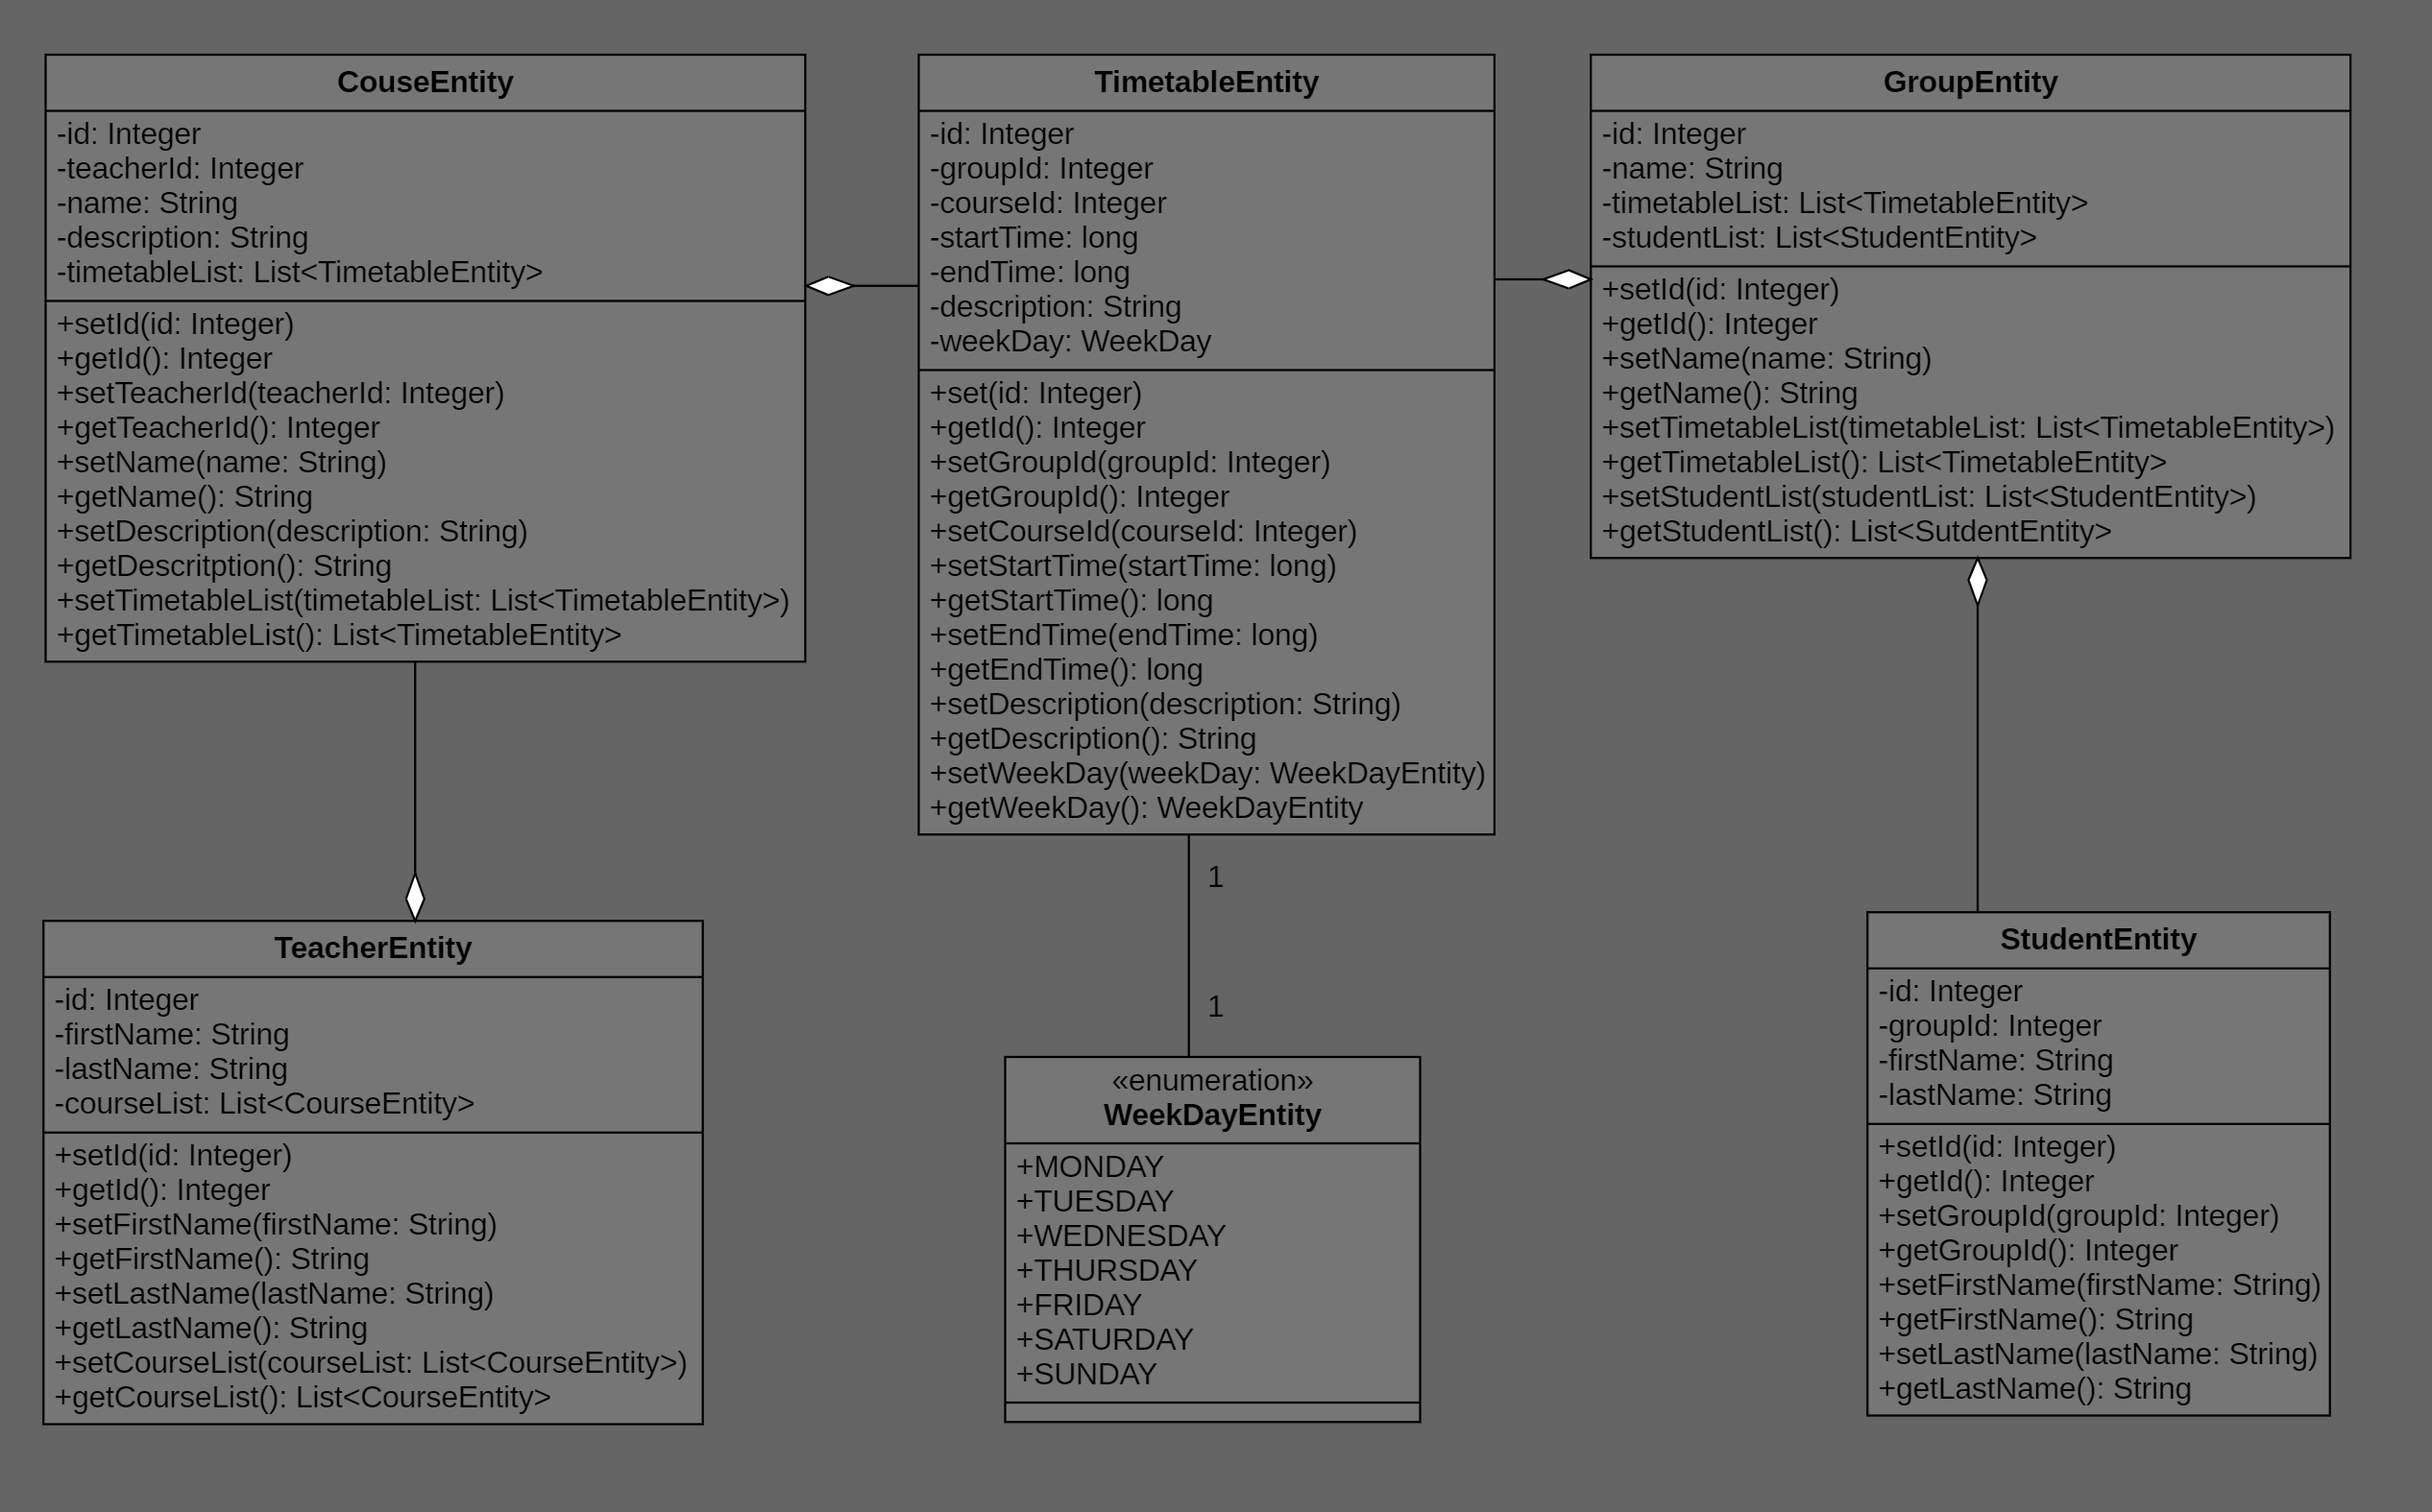
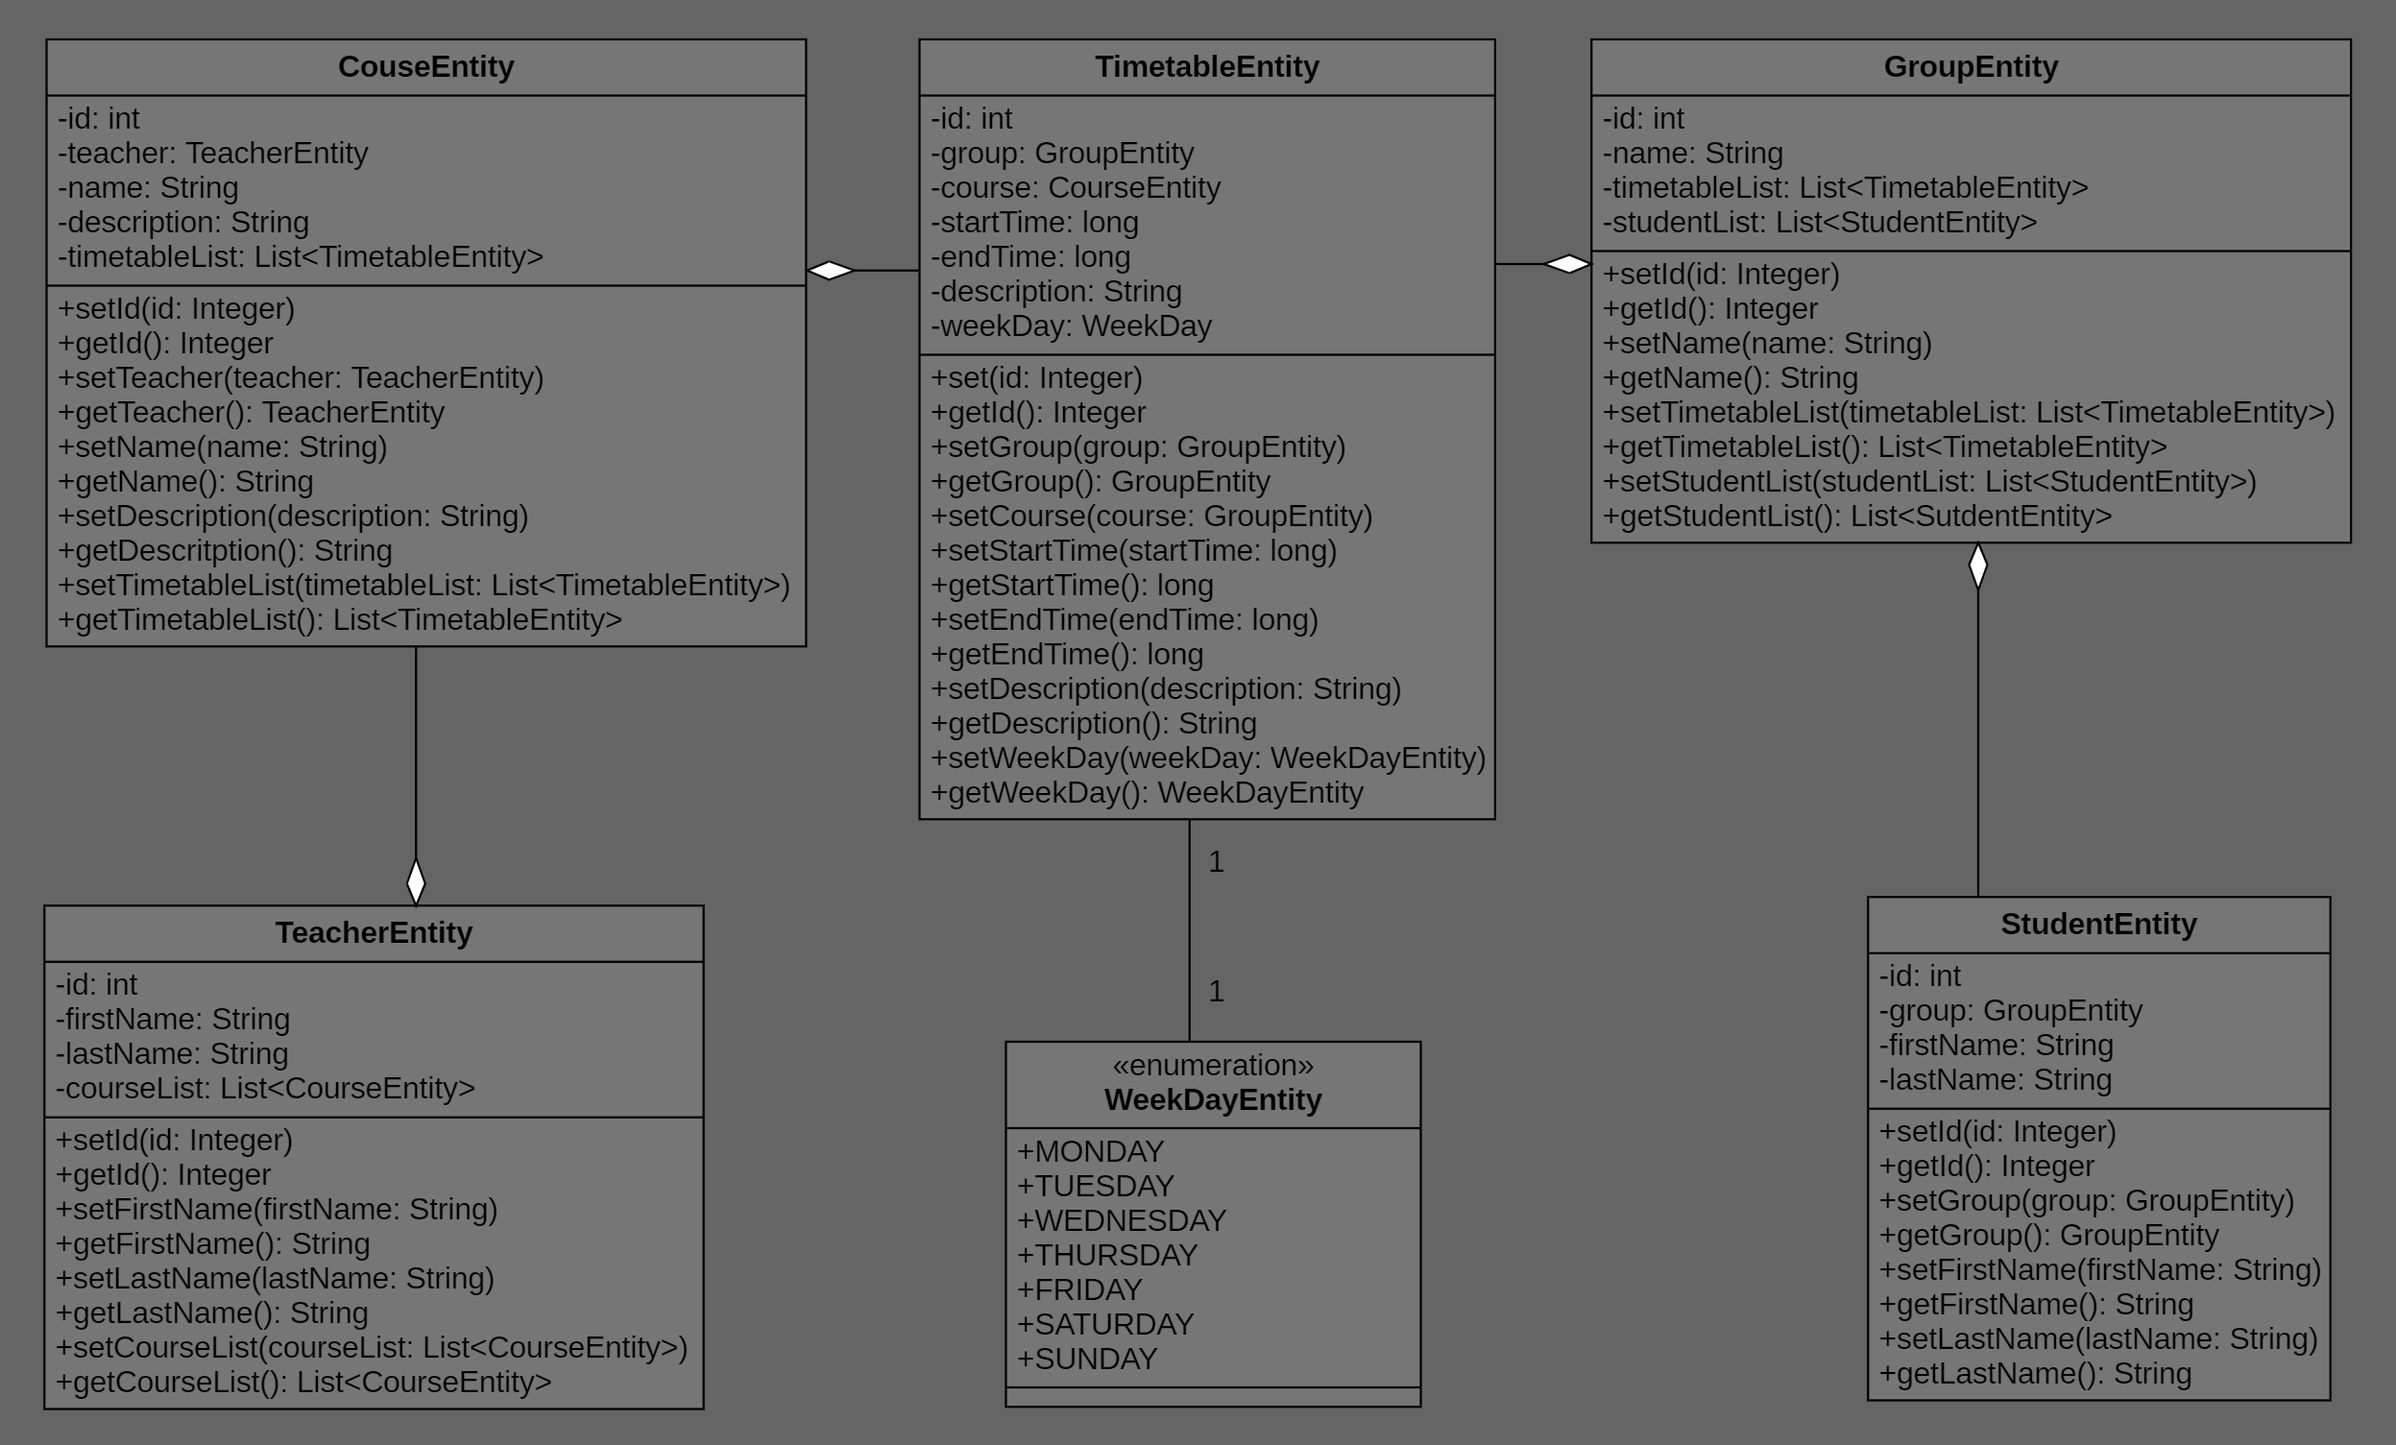
The entity id into another entity that renders the relationship has been replaced by the its entity.

diff --git a/src/main/java/ua/com/foxminded/universitymanagement/entity/TimetableEntity.java b/src/main/java/ua/com/foxminded/universitymanagement/entity/TimetableEntity.java
@@ -4,36 +4,36 @@ import java.util.Objects;
 
 public class TimetableEntity {
 
-    private Integer id;
-    private Integer groupId;
-    private Integer courseId;
+    private int id;
+    private GroupEntity group;
+    private CourseEntity course;
     private long startTime;
     private long endTime;
     private String description;
     private WeekDayEntity weekDay;
 
-    public Integer getId() {
+    public int getId() {
         return id;
     }
 
-    public void setId(Integer id) {
+    public void setId(int id) {
         this.id = id;
     }
 
-    public Integer getGroupId() {
-        return groupId;
+    public GroupEntity getGroup() {
+        return group;
     }
 
-    public void setGroupId(Integer groupId) {
-        this.groupId = groupId;
+    public void setGroup(GroupEntity group) {
+        this.group = group;
     }
 
-    public Integer getCourseId() {
-        return courseId;
+    public CourseEntity getCourse() {
+        return course;
     }
 
-    public void setCourseId(Integer courseId) {
-        this.courseId = courseId;
+    public void setCourse(CourseEntity course) {
+        this.course = course;
     }
 
     public long getStartTime() {
@@ -67,10 +67,10 @@ public class TimetableEntity {
     public void setWeekDay(WeekDayEntity weekDay) {
         this.weekDay = weekDay;
     }
-    
+
     @Override
     public int hashCode() {
-        return Objects.hash(courseId, description, endTime, groupId, id, startTime, weekDay);
+        return Objects.hash(course, description, endTime, group, id, startTime, weekDay);
     }
 
     @Override
@@ -82,8 +82,8 @@ public class TimetableEntity {
         if (getClass() != obj.getClass())
             return false;
         TimetableEntity other = (TimetableEntity) obj;
-        return Objects.equals(courseId, other.courseId) && Objects.equals(description, other.description)
-                && endTime == other.endTime && Objects.equals(groupId, other.groupId) && Objects.equals(id, other.id)
+        return Objects.equals(course, other.course) && Objects.equals(description, other.description)
+                && endTime == other.endTime && Objects.equals(group, other.group) && id == other.id
                 && startTime == other.startTime && weekDay == other.weekDay;
     }
 }

diff --git a/src/main/java/ua/com/foxminded/universitymanagement/entity/CourseEntity.java b/src/main/java/ua/com/foxminded/universitymanagement/entity/CourseEntity.java
@@ -4,26 +4,26 @@ import java.util.List;
 import java.util.Objects;
 
 public class CourseEntity {
-    private Integer id;
-    private Integer teacherId;
+    private int id;
+    private TeacherEntity teacher;
     private String name;
     private String description;
     private List<TimetableEntity> timetableList;
 
-    public Integer getId() {
+    public int getId() {
         return id;
     }
 
-    public void setId(Integer id) {
+    public void setId(int id) {
         this.id = id;
     }
 
-    public Integer getTeacherId() {
-        return teacherId;
+    public TeacherEntity getTeacher() {
+        return teacher;
     }
 
-    public void setTeacherId(Integer teacherId) {
-        this.teacherId = teacherId;
+    public void setTeacher(TeacherEntity teacher) {
+        this.teacher = teacher;
     }
 
     public String getName() {
@@ -52,7 +52,7 @@ public class CourseEntity {
 
     @Override
     public int hashCode() {
-        return Objects.hash(description, id, name, teacherId, timetableList);
+        return Objects.hash(description, id, name, teacher, timetableList);
     }
 
     @Override
@@ -64,8 +64,7 @@ public class CourseEntity {
         if (getClass() != obj.getClass())
             return false;
         CourseEntity other = (CourseEntity) obj;
-        return Objects.equals(description, other.description) && Objects.equals(id, other.id)
-                && Objects.equals(name, other.name) && Objects.equals(teacherId, other.teacherId)
-                && Objects.equals(timetableList, other.timetableList);
+        return Objects.equals(description, other.description) && id == other.id && Objects.equals(name, other.name)
+                && Objects.equals(teacher, other.teacher) && Objects.equals(timetableList, other.timetableList);
     }
 }

diff --git a/src/main/java/ua/com/foxminded/universitymanagement/entity/StudentEntity.java b/src/main/java/ua/com/foxminded/universitymanagement/entity/StudentEntity.java
@@ -4,25 +4,25 @@ import java.util.Objects;
 
 public class StudentEntity {
 
-    private Integer id;
-    private Integer groupId;
+    private int id;
+    private GroupEntity group;
     private String firstName;
     private String lastName;
 
-    public Integer getId() {
+    public int getId() {
         return id;
     }
 
-    public void setId(Integer id) {
+    public void setId(int id) {
         this.id = id;
     }
 
-    public Integer getGroupId() {
-        return groupId;
+    public GroupEntity getGroup() {
+        return group;
     }
 
-    public void setGroupId(Integer groupId) {
-        this.groupId = groupId;
+    public void setGroup(GroupEntity group) {
+        this.group = group;
     }
 
     public String getFirstName() {
@@ -43,7 +43,7 @@ public class StudentEntity {
 
     @Override
     public int hashCode() {
-        return Objects.hash(firstName, groupId, id, lastName);
+        return Objects.hash(firstName, group, id, lastName);
     }
 
     @Override
@@ -55,7 +55,7 @@ public class StudentEntity {
         if (getClass() != obj.getClass())
             return false;
         StudentEntity other = (StudentEntity) obj;
-        return Objects.equals(firstName, other.firstName) && Objects.equals(groupId, other.groupId)
-                && Objects.equals(id, other.id) && Objects.equals(lastName, other.lastName);
+        return Objects.equals(firstName, other.firstName) && Objects.equals(group, other.group) && id == other.id
+                && Objects.equals(lastName, other.lastName);
     }
 }

diff --git a/src/main/java/ua/com/foxminded/universitymanagement/entity/GroupEntity.java b/src/main/java/ua/com/foxminded/universitymanagement/entity/GroupEntity.java
@@ -5,16 +5,16 @@ import java.util.Objects;
 
 public class GroupEntity {
 
-    private Integer id;
+    private int id;
     private String name;
     private List<TimetableEntity> timetableLis;
     private List<StudentEntity> studentList;
 
-    public Integer getId() {
+    public int getId() {
         return id;
     }
 
-    public void setId(Integer id) {
+    public void setId(int id) {
         this.id = id;
     }
 
@@ -56,7 +56,7 @@ public class GroupEntity {
         if (getClass() != obj.getClass())
             return false;
         GroupEntity other = (GroupEntity) obj;
-        return Objects.equals(id, other.id) && Objects.equals(name, other.name)
-                && Objects.equals(studentList, other.studentList) && Objects.equals(timetableLis, other.timetableLis);
+        return id == other.id && Objects.equals(name, other.name) && Objects.equals(studentList, other.studentList)
+                && Objects.equals(timetableLis, other.timetableLis);
     }
 }

diff --git a/src/main/java/ua/com/foxminded/universitymanagement/entity/TeacherEntity.java b/src/main/java/ua/com/foxminded/universitymanagement/entity/TeacherEntity.java
@@ -5,16 +5,16 @@ import java.util.Objects;
 
 public class TeacherEntity {
 
-    private Integer id;
+    private int id;
     private String firstName;
     private String lastName;
     private List<CourseEntity> courseList;
 
-    public Integer getId() {
+    public int getId() {
         return id;
     }
 
-    public void setId(Integer id) {
+    public void setId(int id) {
         this.id = id;
     }
 
@@ -57,6 +57,6 @@ public class TeacherEntity {
             return false;
         TeacherEntity other = (TeacherEntity) obj;
         return Objects.equals(courseList, other.courseList) && Objects.equals(firstName, other.firstName)
-                && Objects.equals(id, other.id) && Objects.equals(lastName, other.lastName);
+                && id == other.id && Objects.equals(lastName, other.lastName);
     }
 }
